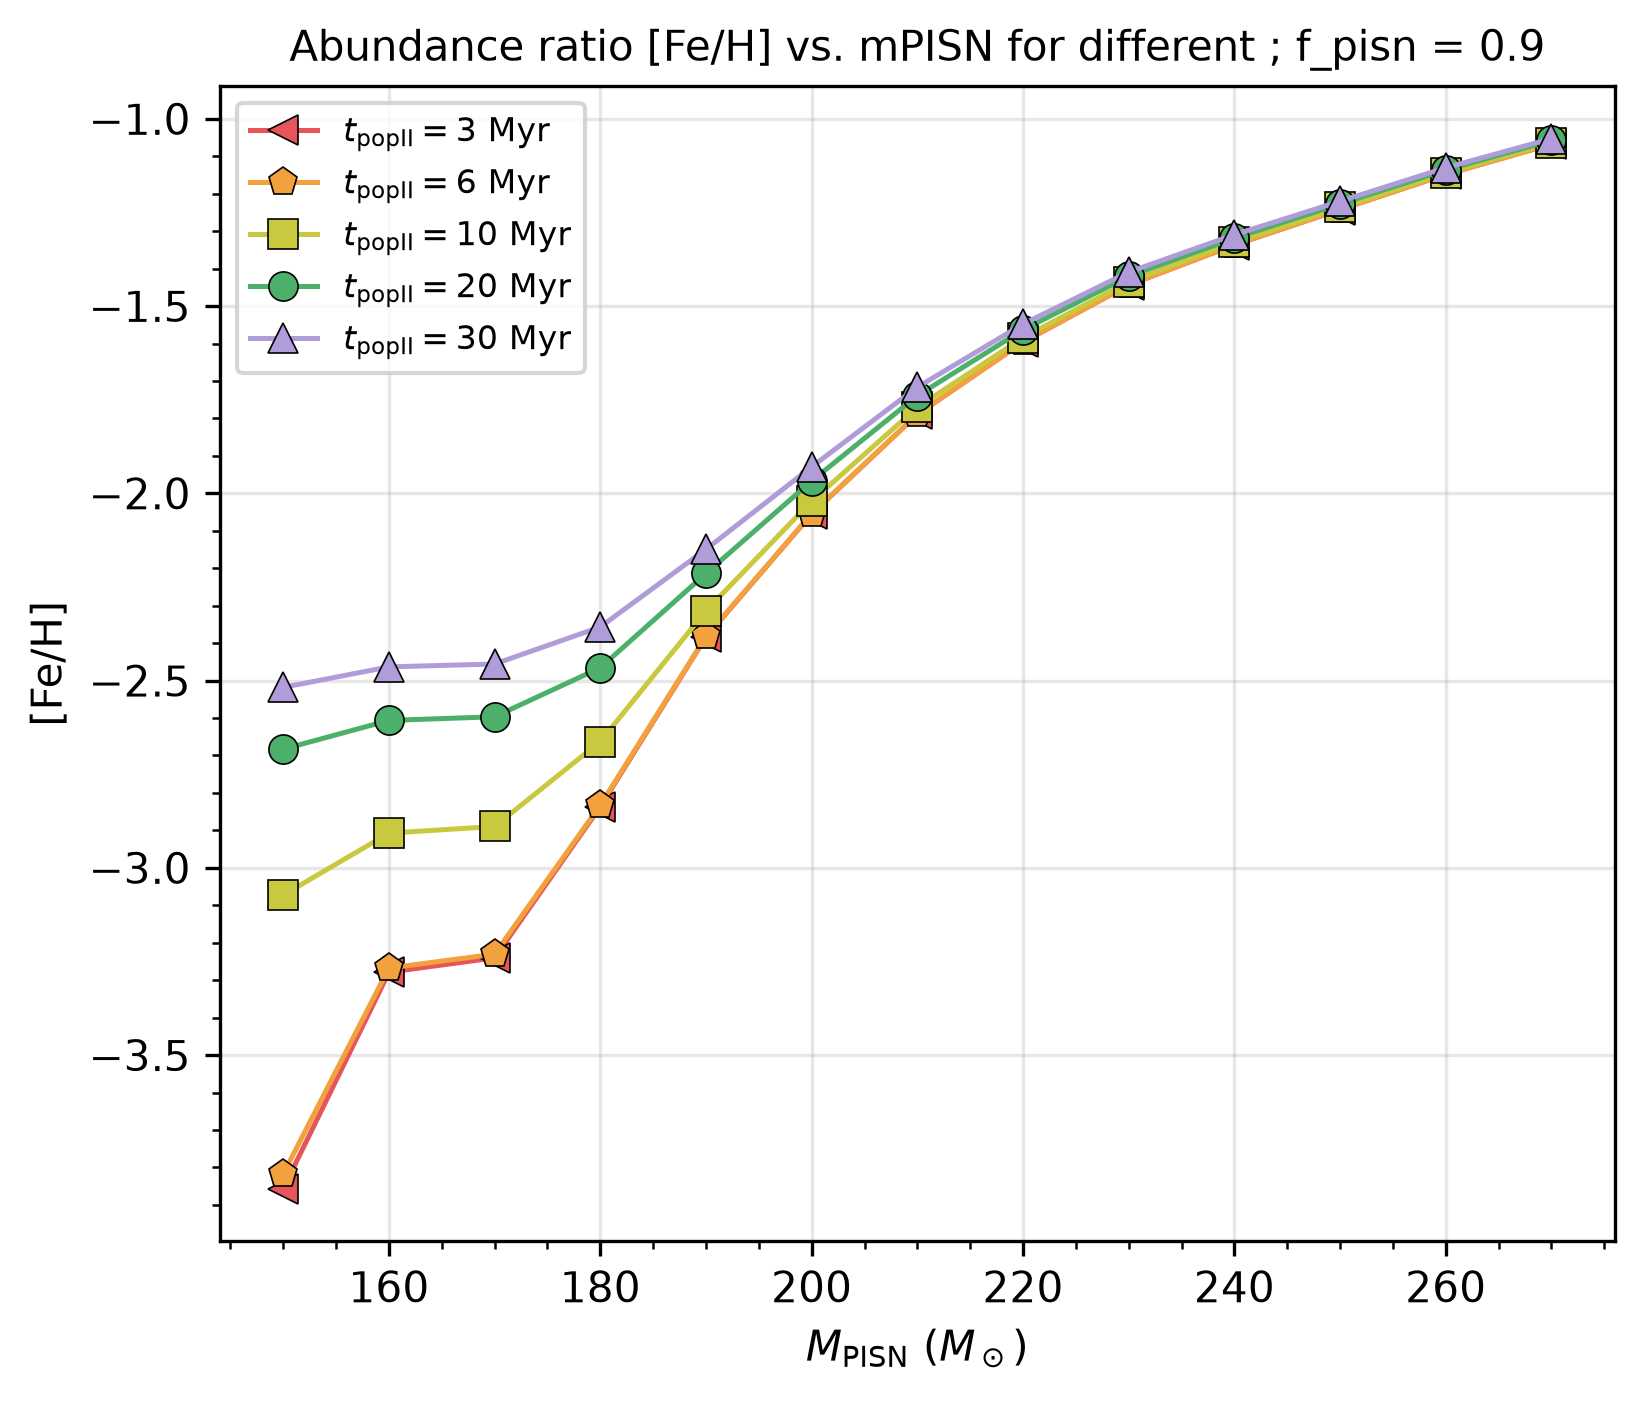
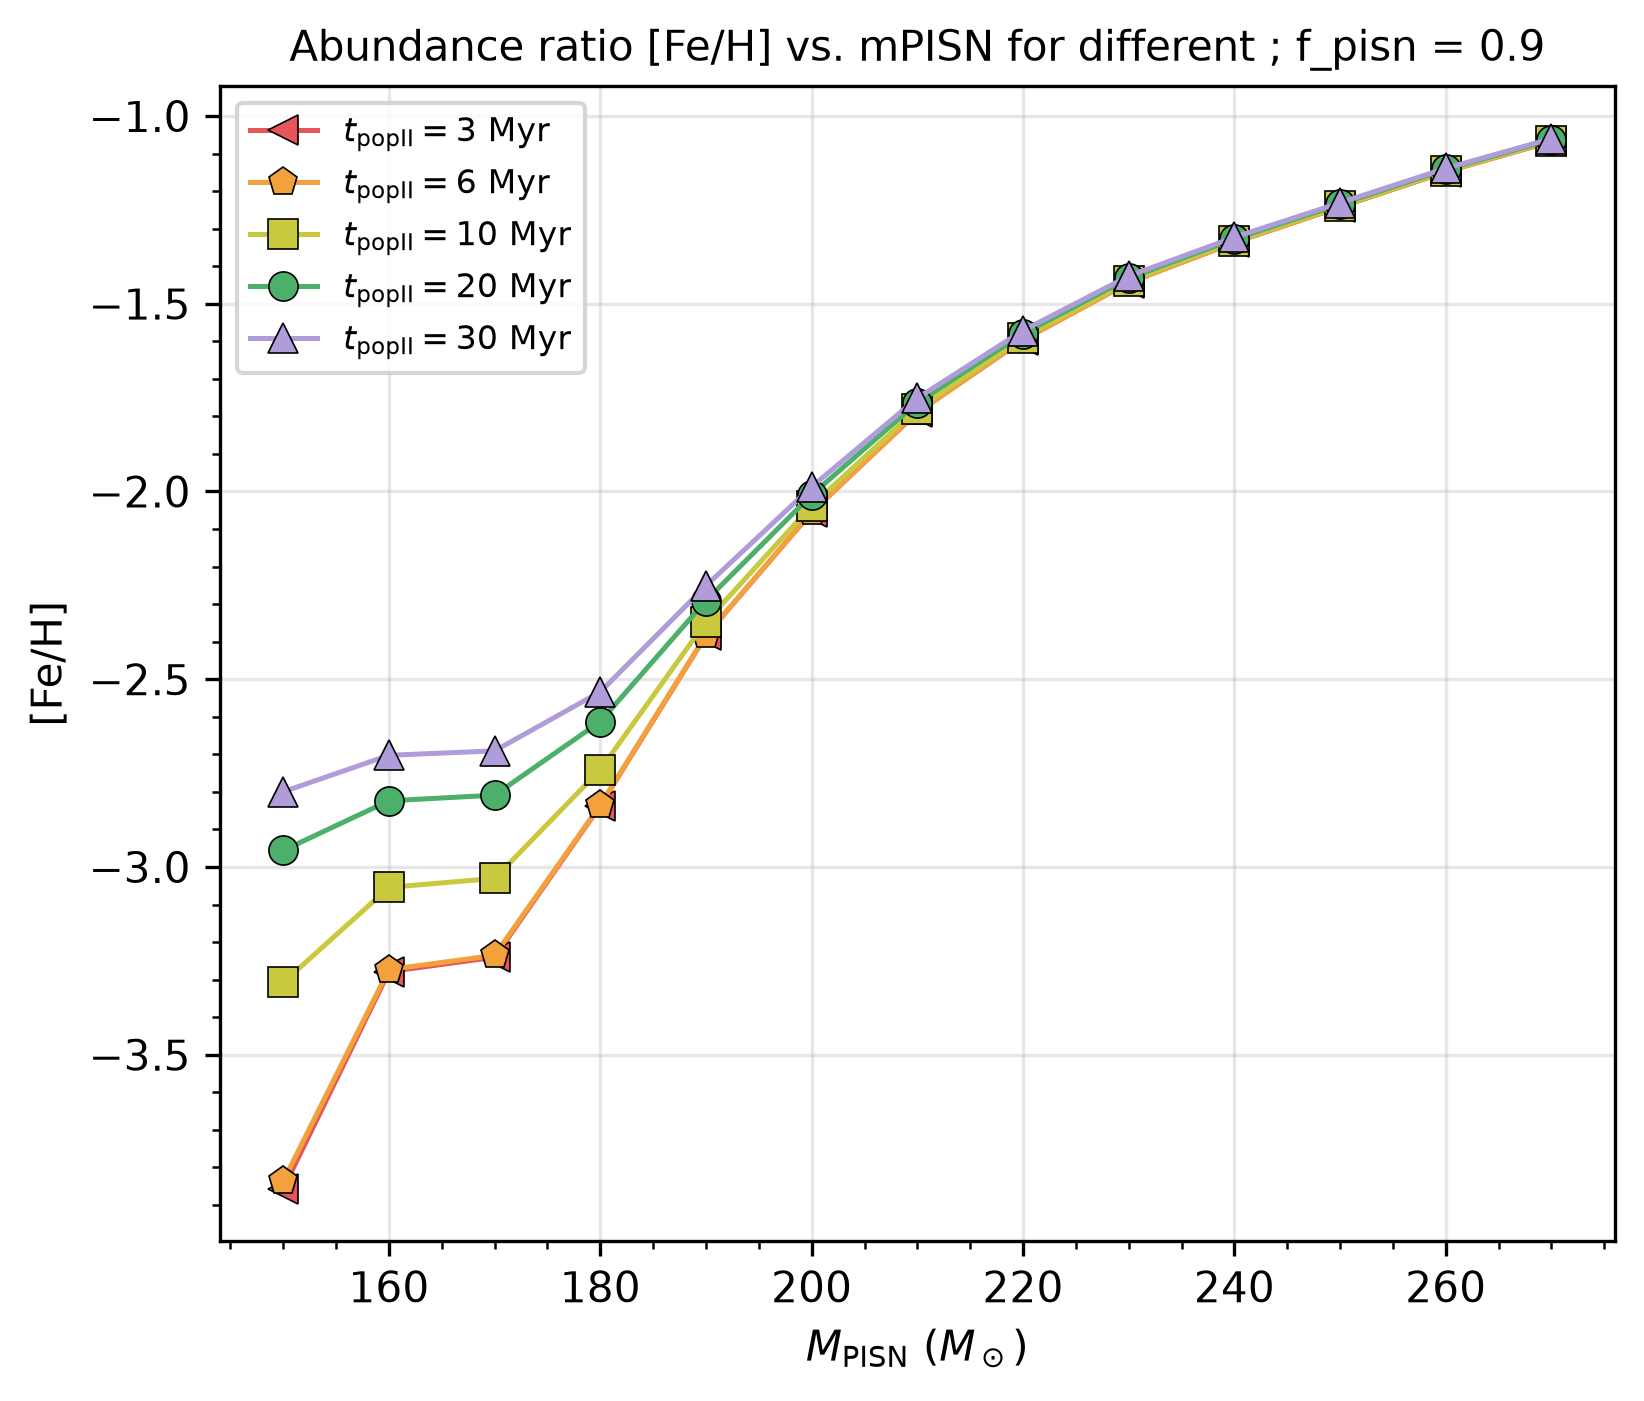
Fixed issues with fig5

diff --git a/src/salvadori/fig5.py b/src/salvadori/fig5.py
@@ -1,5 +1,6 @@
 import matplotlib.pyplot as plt
 import numpy as np
+from scipy.interpolate import interp1d
 
 from src.load_data import load_ww95
 from src.salvadori_funcs import salvadori_Y_X_II, salvadori_Y_Z_II
@@ -74,6 +75,13 @@ def masses_for_model(data, model=MODEL):
 masses = masses_for_model(ww_data)
 lifetimes = np.array([raiteri_lifetime(m, Z_STAR) for m in masses])
 
+# Dense mass grid used for the interpolated curves.
+# WW95 tabulated masses are still used for the plotted markers.
+mass_grid = np.linspace(masses.min(), masses.max(), 500)
+time_grid = np.array([
+    raiteri_lifetime(m, Z_STAR) for m in mass_grid
+])
+
 # --- Left panel: raw per-star yield mass, m_X^II(m), vs that star's lifetime ---
 def per_star_yield(data, elem, model=MODEL):
     """Raw (decay-corrected) ejecta mass of `elem` for each tabulated mass,
@@ -88,20 +96,39 @@ def per_star_yield(data, elem, model=MODEL):
             val = sum(v for el, v in yv.items() if el not in ("H", "He"))
         else:
             val = yv.get(elem, 0.0)
+
+            if elem == "Fe":
+                val *= 0.5
         by_mass[entry["params"]["mass"]] = val
     return np.array([by_mass.get(m, 0.0) for m in masses])
 
 
 # --- Right panel: IMF-integrated, time-cumulative yield, Y_X^II(t) ---
-def cumulative_yield(elem):
-    """Y_X^II evaluated at m_popII = each tabulated mass (i.e. at t = that
-    star's lifetime), using the existing salvadori_Y_X_II / Y_Z_II."""
+def cumulative_yield(elem, m_grid):
+    """Y_X^II evaluated over a dense m_popII grid."""
     vals = []
-    for m in masses:
+
+    for m in m_grid:
         if elem == "Z":
-            vals.append(salvadori_Y_Z_II(ww_data, m_popII=m, model=MODEL, m_max=100.0))
+            vals.append(
+                salvadori_Y_Z_II(
+                    ww_data,
+                    m_popII=m,
+                    model=MODEL,
+                    m_max=100.0,
+                )
+            )
         else:
-            vals.append(salvadori_Y_X_II(ww_data, elem=elem, m_popII=m, model=MODEL, m_max=100.0))
+            vals.append(
+                salvadori_Y_X_II(
+                    ww_data,
+                    elem=elem,
+                    m_popII=m,
+                    model=MODEL,
+                    m_max=100.0,
+                )
+            )
+
     return np.array(vals)
 
 
@@ -112,36 +139,114 @@ for row, group in enumerate(GROUPS):
     color = group["color"]
 
     for elem, style in group["members"]:
+        # Original WW95 points
         y_left = per_star_yield(ww_data, elem)
-        y_right = cumulative_yield(elem)
+
+        # Dense interpolated single-star curve
+        mask_l = y_left > 0
+
+        if np.count_nonzero(mask_l) >= 2:
+            yield_interp = interp1d(
+                masses[mask_l],
+                y_left[mask_l],
+                kind="linear",
+                bounds_error=False,
+                fill_value="extrapolate",
+            )
+
+            y_left_dense = yield_interp(mass_grid)
+
+            # Do not allow interpolation to produce non-positive values
+            mask_dense_l = y_left_dense > 0
+        else:
+            y_left_dense = np.full_like(mass_grid, np.nan)
+            mask_dense_l = np.zeros_like(mass_grid, dtype=bool)
+
+        # Dense IMF-integrated curve
+        y_right_dense = cumulative_yield(elem, mass_grid)
+        mask_dense_r = y_right_dense > 0
+
+        # Original WW95 points for markers
+        mask_points_l = y_left > 0
+
+        # Right-panel values at the original WW95 masses
+        y_right_points = cumulative_yield(elem, masses)
+        mask_points_r = y_right_points > 0
 
         mfc = color if style.get("mfc", "full") == "full" else "none"
         marker = style["marker"]
         ls = style["ls"]
 
-        mask_l = y_left > 0
-        mask_r = y_right > 0
-
+        # ---------------------------------------------------------
+        # LEFT: smooth interpolated line
+        # ---------------------------------------------------------
         ax_left.plot(
-            lifetimes[mask_l], np.log10(y_left[mask_l]),
-            marker=marker if marker != "None" else None,
-            linestyle=ls, color=color, markerfacecolor=mfc,
-            markeredgecolor=color, markersize=5, linewidth=1.0,
+            time_grid[mask_dense_l],
+            np.log10(y_left_dense[mask_dense_l]),
+            linestyle=ls,
+            color=color,
+            linewidth=1.0,
         )
+
+        # Original WW95 data points
+        if marker != "None":
+            ax_left.plot(
+                lifetimes[mask_points_l],
+                np.log10(y_left[mask_points_l]),
+                linestyle="None",
+                marker=marker,
+                color=color,
+                markerfacecolor=mfc,
+                markeredgecolor=color,
+                markersize=5,
+            )
+
+        # ---------------------------------------------------------
+        # RIGHT: smooth IMF-integrated curve
+        # ---------------------------------------------------------
         ax_right.plot(
-            lifetimes[mask_r], np.log10(y_right[mask_r]),
-            marker=marker if marker != "None" else None,
-            linestyle=ls, color=color, markerfacecolor=mfc,
-            markeredgecolor=color, markersize=5, linewidth=1.0,
+            time_grid[mask_dense_r],
+            np.log10(y_right_dense[mask_dense_r]),
+            linestyle=ls,
+            color=color,
+            linewidth=1.0,
             label=elem,
         )
+
+        # Original WW95 mass locations
+        if marker != "None":
+            ax_right.plot(
+                lifetimes[mask_points_r],
+                np.log10(y_right_points[mask_points_r]),
+                linestyle="None",
+                marker=marker,
+                color=color,
+                markerfacecolor=mfc,
+                markeredgecolor=color,
+                markersize=5,
+            )
 
     ax_left.set_xscale("log")
     ax_right.set_xscale("log")
     ax_left.grid(alpha=0.2)
     ax_right.grid(alpha=0.2)
-    ax_right.legend(fontsize=7, loc="center left", bbox_to_anchor=(1.01, 0.5),
-                     frameon=False, handlelength=2.2)
+    leg = ax_right.legend(
+        fontsize=7,
+        loc="center left",
+        bbox_to_anchor=(1.01, 0.5),
+        frameon=False,
+        handlelength=2.2,
+    )
+
+    for handle, (elem, style) in zip(leg.legend_handles, group["members"]):
+        marker = style["marker"]
+        mfc = color if style.get("mfc", "full") == "full" else "none"
+
+        if marker != "None":
+            handle.set_marker(marker)
+            handle.set_markerfacecolor(mfc)
+            handle.set_markeredgecolor(color)
+            handle.set_markersize(5)
 
 axes[0, 0].set_title(r"$\log(m_X^{II}/M_\odot)$ vs lifetime  (single star)", fontsize=10)
 axes[0, 1].set_title(r"$\log(Y_X^{II}/M_\odot)$ vs $t_\mathrm{popII}$  (IMF-integrated)", fontsize=10)

diff --git a/src/salvadori_funcs.py b/src/salvadori_funcs.py
@@ -283,8 +283,8 @@ def salvadori_Y_X_II(data: list[dict], elem: str, m_popII: float, model: str = "
         mass = entry["params"]["mass"]
         element_yields = _combine_elements(_apply_radioactive_decay(entry["yields"]))
 
-        # if elem == "Fe":
-        #     element_yields["Fe"] *= 0.5
+        if elem == "Fe":
+            element_yields["Fe"] *= 0.5
 
         if elem not in element_yields:
             continue
